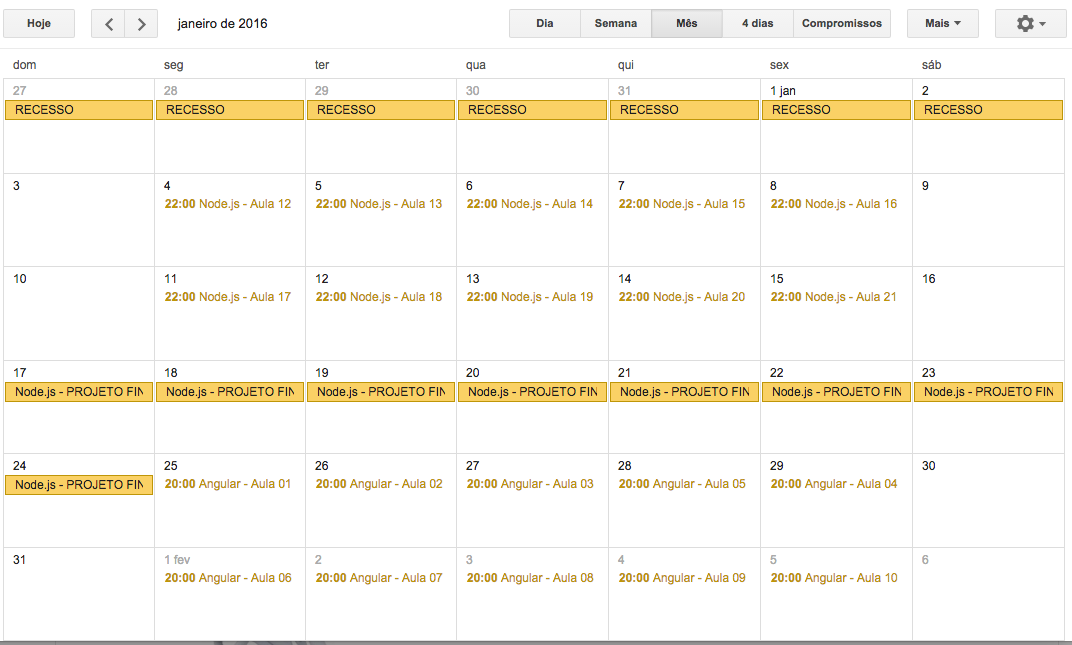
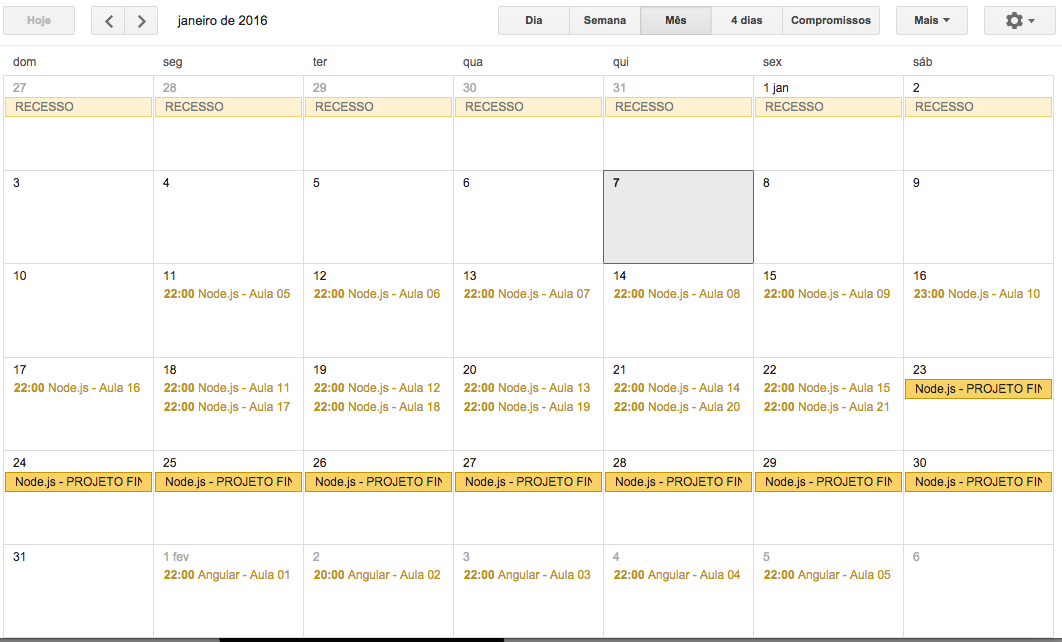
Ajeitando a casa

diff --git a/be-mean-code-examples/filesystem/1writefile.js b/be-mean-code-examples/filesystem/1writefile.js
@@ -1,0 +1,21 @@
+/**
+ * sincrona
+ */
+var fs = require('fs');
+
+
+var write = fs.writeFileSync("./hello.txt","Hello, motherfucker!");
+
+
+/**
+ * async
+ */
+
+
+fs.writeFile("./hello2.txt","hello, I'm a motherfucker async content", function (err, result) {
+  if (err) throw err;
+  console.log(result);
+});
+
+var writeStream = fs.createWriteStream('./helloStream.txt', {defaultEnconding:'utf8k'});
+writeStream.write("Hello,  I'm a writable stream!");

diff --git a/be-mean-code-examples/filesystem/readdir.js b/be-mean-code-examples/filesystem/readdir.js
@@ -1,0 +1,16 @@
+/**
+ * criar arquivos dentro de um diretório
+ */
+var fs = require('fs');
+
+
+fs.mkdirSync('meusArquivos');
+
+fs.writeFileSync('./meusArquivos/helloworld.txt', "hello, world!");
+fs.writeFileSync('./meusArquivos/hiworld.txt', "hi, world!");
+
+
+fs.readdir('./meusArquivos', function (err, files) {
+  if (err) throw err;
+  console.log(files);
+});

diff --git a/be-mean-code-examples/filesystem/readfile.js b/be-mean-code-examples/filesystem/readfile.js
@@ -1,0 +1,16 @@
+/**
+ * async, sync
+ */
+
+var fs = require('fs');
+
+
+fs.readFile('./meusArquivos/helloworld.txt', 'utf8',function (err, data) {
+  if (err) throw err;
+  console.log(data);
+});
+
+
+var dataSync = fs.readFileSync('./meusArquivos/hiworld.txt', 'utf8');
+
+console.log(dataSync);

diff --git a/be-mean-code-examples/filesystem/mkdir.js b/be-mean-code-examples/filesystem/mkdir.js
@@ -1,0 +1,13 @@
+/**
+ * async, sync
+ */
+
+var fs = require('fs');
+
+
+fs.mkdir('./eufuiCriadoComNode', function (err, result) {
+  if (err) throw err;
+  console.log(result);
+});
+
+fs.mkdir('./criadoAssincronamenteComNode');

diff --git a/be-mean-code-examples/filesystem/fsOpen.js b/be-mean-code-examples/filesystem/fsOpen.js
@@ -1,0 +1,11 @@
+/**
+ * Open async
+ */
+var fs = require('fs');
+
+
+
+fs.open('./hello.txt', 'r', function (err, data) {
+  if (err) throw err;
+  console.log(data.toString());
+});

diff --git a/be-mean-code-examples/filesystem/rename.js b/be-mean-code-examples/filesystem/rename.js
@@ -1,0 +1,11 @@
+/**
+ * rename
+ */
+ 
+
+var fs = require('fs');
+
+
+fs.rename('./eufuiCriadoComNode/', './eufuiRenomeadoComNode', function (err) {
+  if (err) throw err;
+});

diff --git a/README.md b/README.md
@@ -1,14 +1,14 @@
-# As aulas retornarão na primeira semana de JANEIRO!
+![](./2016-janeiro.png)
 
 # APOIE
 
-## R$50
+### R$50
 
 Recebe os três primeiros certificados (MongoDB, Node.js e AngularJs) com 42 horas ao total.
 
 Certificados:
 
-- MongoDB (7 horas)
+- MongoDB (9 horas)
 - Node.js (20 horas)
 - AngularJs (15 horas)
 
